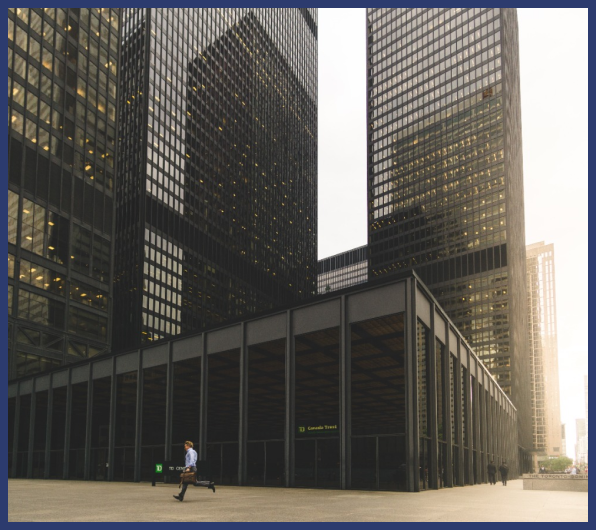
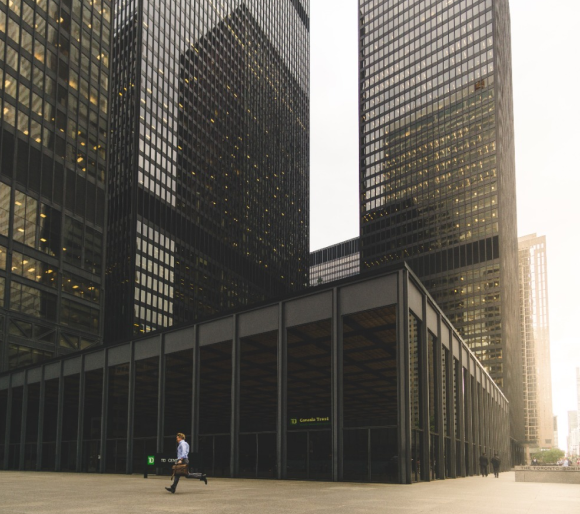
#3

diff --git a/src/components/Main/About/AboutContentTwo/AboutContentTwo.jsx b/src/components/Main/About/AboutContentTwo/AboutContentTwo.jsx
@@ -4,7 +4,7 @@ export const AboutContentTwo = () => {
     return (
         <>
          <figure className={style.aboutStyle}>
-            <img src="src/assets/images/building.png" alt="" />
+            
         <figcaption>
             <header>
             <h2>EVIG GARANTI</h2>
@@ -12,6 +12,7 @@ export const AboutContentTwo = () => {
                 <p>Leo-lov har altid været det bedste advokatfirma i verden. Der er simpelthen ingen der kan måle sig med os. Vi kan løse alle problemer så længe du har penge. Hvis du mod alt forventning skulle oplevel at støde på et retsligt problem som leo-lov ikke kan løse får du halvdelen af beløbet igen.</p>
                 <p>Det er sådan vi har skabt en forretning der ikke kan andet end at vokse!</p>
         </figcaption>
+        <img src="src/assets/images/building.png" alt="" />
         </figure>
         </>
     )

diff --git a/src/components/Header/Header.module.scss b/src/components/Header/Header.module.scss
@@ -9,18 +9,25 @@
     width: 100%;
     height: 742px;
     display: flex;
-    align-items: center;
+    // align-items: center;
     flex-direction: column;
 
-}
+
  
 
 
-.hgroupStyle {
-    h1 {
+
+    h2 {
         font-size: 8rem;
         font-family: 'Jura';
+        color: #fff;
         margin: auto;
+        text-align: center;
+        padding: 0 3rem;
+        padding-top: 5rem;
+        display: flex;
+        justify-content: right;
+        margin: 0;
         
     }    
     span{
@@ -29,11 +36,15 @@
     
     p {
         font-size: 1rem;
-        color: var(--White);
+        color: #fff;
         font-family: 'Inter', serif;
         font-weight: 400;
         text-align: center;
-        margin: auto; 
+        // margin: auto; 
+        display: flex;
+        justify-content: right;
+        padding: 0 3rem;
+        margin: 0;
     }
 }
     

diff --git a/src/components/Main/About/AboutContent/AboutContent.module.scss b/src/components/Main/About/AboutContent/AboutContent.module.scss
@@ -1,0 +1,27 @@
+.aboutStyle {
+
+    display: flex;
+    margin: auto;
+    border: 9px solid #2C3B6F;
+    max-width: 1200px;
+
+    h2 {
+    font-family: 'Jura';
+    color: var(--Blue);
+    text-align: center;
+    padding-bottom: 4vw;
+    font-size: 2rem;
+    font-weight: 400;
+    padding-top: 2vw;
+    }
+
+    p {
+        font-family: 'Inter';
+        padding: 0 4rem;
+       
+    }
+
+    img {
+        border-right: 9px solid #2C3B6F;
+    }
+ }

diff --git a/src/components/Main/About/AboutContentTwo/AboutContentTwo.module.scss b/src/components/Main/About/AboutContentTwo/AboutContentTwo.module.scss
@@ -1,0 +1,27 @@
+.aboutStyle {
+
+    display: flex;
+    margin: auto;
+    border: 9px solid #2C3B6F;
+    max-width: 1200px;
+
+    h2 {
+    font-family: 'Jura';
+    color: var(--Blue);
+    text-align: center;
+    padding-bottom: 4vw;
+    font-size: 2rem;
+    font-weight: 400;
+    padding-top: 2vw;
+    }
+
+    p {
+        font-family: 'Inter';
+        padding: 0 4rem;
+       
+    }
+
+    img {
+        border-left: 9px solid #2C3B6F;
+    }
+ }

diff --git a/src/components/Main/Team/Team.module.scss b/src/components/Main/Team/Team.module.scss
@@ -1,4 +1,8 @@
 .teamStyle {
-    display: grid;
-    grid-template-columns: 1fr 1fr 1fr 1fr;
+    h3 {
+        padding: 1rem 0;
+    }
+    p {
+        padding: 0 3rem;
+    }
 }

diff --git a/src/App.scss b/src/App.scss
@@ -1,8 +1,8 @@
 #root {
   max-width: 1280px;
-  margin: 0 auto;
+  margin: auto;
   padding: 2rem;
-  text-align: center;
+  // text-align: center;
 }
 
 :root {

diff --git a/src/components/Main/Main.module.scss b/src/components/Main/Main.module.scss
@@ -7,4 +7,13 @@
 
   max-width: 1280px;
 
+
 }
+
+.teamStyle {
+   display: grid;
+  grid-template-columns: repeat(4, 1fr);
+padding-top: 3rem;
+
+}
+

diff --git a/src/components/Nav/Navbar.module.scss b/src/components/Nav/Navbar.module.scss
@@ -6,6 +6,7 @@
     margin: 0;
    display: flex;
     position: fixed;
+    max-width: 1280px;
 }
 
 .navbarUl {
